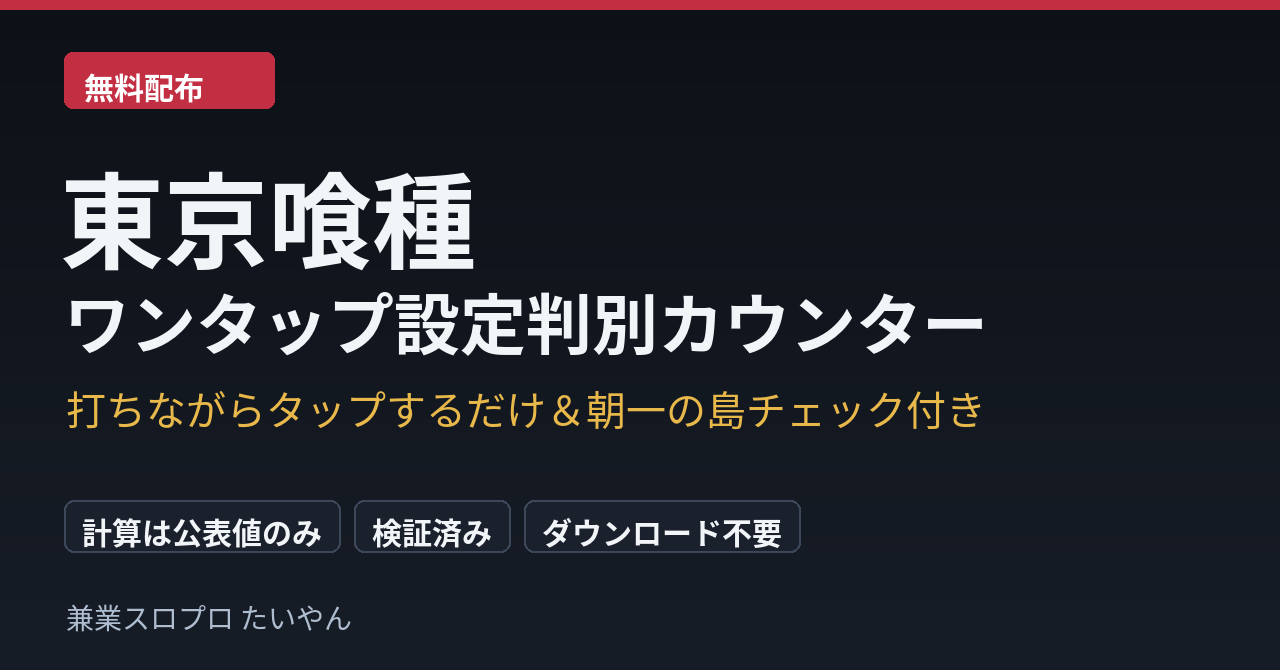
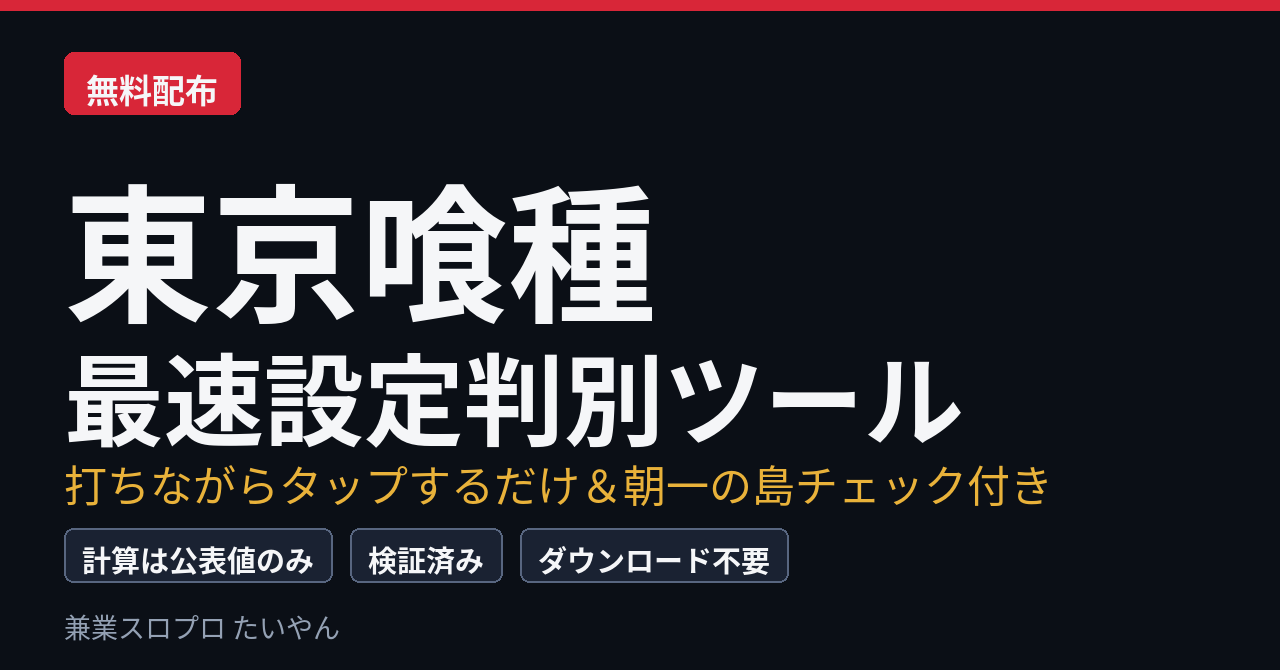
ツール名を変更

Changed region(s): [[0.0312, 0.2388, 0.8125, 0.8657], [0.0312, 0.8955, 0.2812, 0.9552], [0.0312, 0.0597, 0.2188, 0.1791]]

diff --git a/index.html b/index.html
@@ -3,9 +3,9 @@
 <head>
 <meta charset="utf-8">
 <meta name="viewport" content="width=device-width, initial-scale=1, maximum-scale=1, user-scalable=no">
-<title>東京喰種 ワンタップ設定判別カウンター</title>
+<title>東京喰種 最速設定判別ツール</title>
 <meta property="og:type" content="website">
-<meta property="og:title" content="東京喰種 ワンタップ設定判別カウンター">
+<meta property="og:title" content="東京喰種 最速設定判別ツール">
 <meta property="og:description" content="打ちながらタップするだけで、設定の「寄り」が見える無料ツール。朝一の島チェック付き。計算は公表値のみ・検証済み。">
 <meta property="og:url" content="https://taiyanyan-slot.github.io/ghoul-counter/">
 <meta property="og:image" content="https://taiyanyan-slot.github.io/ghoul-counter/ogp.png">
@@ -70,7 +70,7 @@
 </style>
 </head>
 <body>
-<h1>東京喰種 ワンタップ設定判別カウンター</h1>
+<h1>東京喰種 最速設定判別ツール</h1>
 
 <div class="tabs">
   <button id="tabCounter" class="on">自台カウンター</button>
